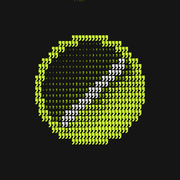
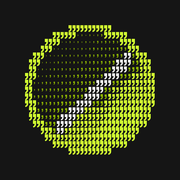
홈 화면 아이콘을 쉼표 동전으로

Changed region(s): [[0.1389, 0.1389, 0.8611, 0.8611]]

diff --git a/index.html b/index.html
@@ -9,8 +9,9 @@
 <meta name="apple-mobile-web-app-title" content="콤마">
 <meta name="theme-color" content="#151515">
 <title>콤마</title>
-<link rel="manifest" href="manifest.webmanifest">
-<link rel="apple-touch-icon" href="icon-180.png">
+<link rel="manifest" href="manifest.webmanifest?v=2">
+<link rel="apple-touch-icon" sizes="180x180" href="icon-180.png?v=2">
+<link rel="icon" type="image/png" sizes="192x192" href="icon-192.png?v=2">
 <link rel="preload" href="fonts/PretendardVariable.woff2" as="font" type="font/woff2" crossorigin>
 <link rel="stylesheet" href="app.css">
 </head>
